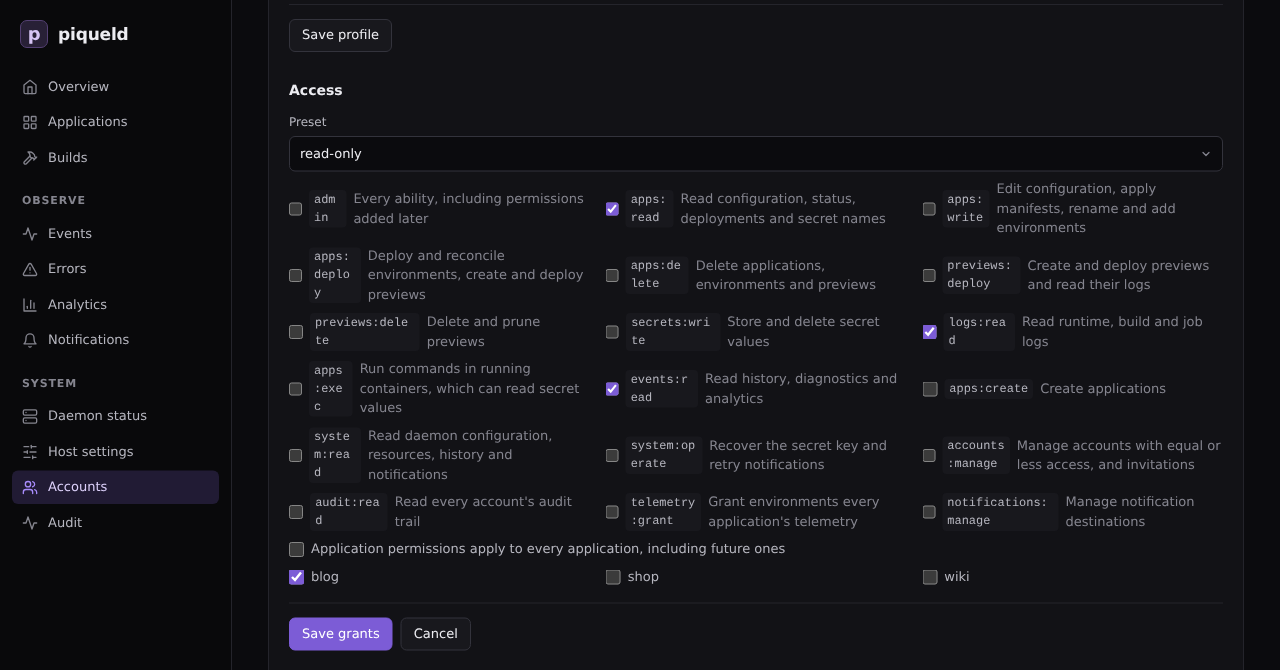
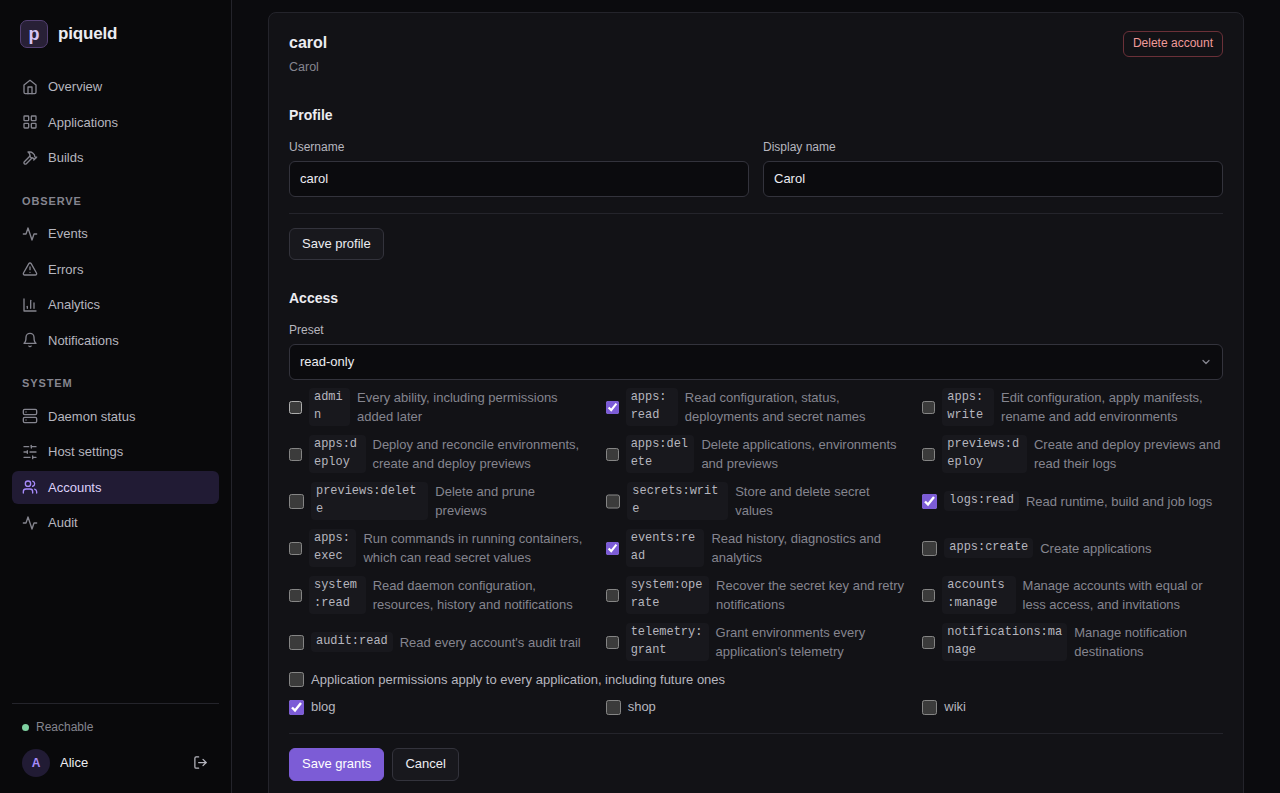
docs(user): generate the account screenshots
The account guides' four images were taken by hand. A screenshot spec now
seeds alice, carol, three applications and the pending links through the
Accounts page, as the guides do, and shoots each image. `shoot` gains a
`from` element, so an image can start mid-page, and freezes UUIDs, which
the Activity links carry.

diff --git a/tests/playwright/screenshots/docs.ts b/tests/playwright/screenshots/docs.ts
@@ -1,7 +1,7 @@
 // Helpers for the documentation screenshots: each one brings the dashboard to
 // a page, or state, a guide shows; `shoot` then saves it into docs/images.
-import type { Locator, Page } from '@playwright/test';
-import { test as base, expect, adminToken, fillRegistration, applicationTab, rewrite, type Cli } from '../fixtures.js';
+import type { Browser, Locator, Page } from '@playwright/test';
+import { test as base, expect, adminToken, fillRegistration, submitRegistration, applicationTab, rewrite, Passkeys, type Cli } from '../fixtures.js';
 import { createHash } from 'node:crypto';
 import { readFile, writeFile } from 'node:fs/promises';
 import { join } from 'node:path';
@@ -33,16 +33,20 @@ export const test = base.extend({
 
 /** Saves the page as docs/images/`name`.png, cut 12 pixels below the
  * bottom of `through`, or 800 pixels tall without it, once `freeze` has
- * made its content the same on every run.
+ * made its content the same on every run. With `from`, the image starts 12
+ * pixels above it, the page scrolled under the sidebar, instead of at the
+ * top of the page.
  *
  * The image records a fingerprint of the page it shows: its content and
  * styles, not its pixels, which antialiasing varies between runs. A page
  * whose fingerprint matches its image's isn't shot again. With
  * `--update-snapshots=none`, as in CI, a page that no longer matches fails
  * instead. */
-export async function shoot(page: Page, name: string, through?: Locator) {
-  const box = await through?.boundingBox();
-  await page.setViewportSize({ width: 1280, height: box ? Math.ceil(box.y + box.height) + 12 : 800 });
+export async function shoot(page: Page, name: string, through?: Locator, from?: Locator) {
+  const top = await from?.evaluate(element => element.getBoundingClientRect().top + scrollY - 12) ?? 0;
+  const bottom = await through?.evaluate(element => element.getBoundingClientRect().bottom + scrollY + 12);
+  await page.setViewportSize({ width: 1280, height: bottom ? Math.ceil(bottom - top) : 800 });
+  await page.evaluate(top => scrollTo(0, top), top);
   // Stop the dashboard's timers, without running any, so no refresh redraws
   // what `freeze` replaced. Fixing the time first makes pausing at it skip
   // nothing, however long the calls take.
@@ -66,8 +70,8 @@ export async function shoot(page: Page, name: string, through?: Locator) {
   await page.clock.resume();
 }
 
-// The text that differs on every run: random IDs and digests, and dates.
-const identifier = String.raw`\b[0-9a-f]{32,64}\b`;
+// The text that differs on every run: random IDs, UUIDs and digests, and dates.
+const identifier = String.raw`\b(?:[0-9a-f]{8}-[0-9a-f]{4}-[0-9a-f]{4}-[0-9a-f]{4}-[0-9a-f]{12}|[0-9a-f]{32,64})\b`;
 const date = String.raw`\b\d{1,2}\/\d{1,2}\/\d{4}, \d{1,2}:\d{2}:\d{2} [AP]M\b`;
 const fixedDate = '10/24/2026, 9:41:07 AM';
 const isoDate = String.raw`\b\d{4}-\d{2}-\d{2}T\d{2}:\d{2}:\d{2}(?:\.\d+)?Z\b`;
@@ -77,8 +81,9 @@ async function varying(page: Page): Promise<string[]> {
   return page.evaluate(pattern => [...new Set(document.body.innerText.match(new RegExp(pattern, 'g')))], `${identifier}|${date}`);
 }
 
-/** A hash of what the frozen page draws: the window's size, its styles, and
- * its content, with form values and without scripts. IDs and dates left in
+/** A hash of what the frozen page draws: the window's size and, when
+ * scrolled, where, its styles, and its content, with form values and without
+ * scripts. IDs and dates left in
  * attributes, such as links, are replaced like `freeze` replaces text. */
 async function fingerprint(page: Page): Promise<string> {
   const drawn = await page.evaluate(() => {
@@ -86,7 +91,8 @@ async function fingerprint(page: Page): Promise<string> {
     body.querySelectorAll('script').forEach(script => script.remove());
     const styles = Array.from(document.styleSheets).flatMap(sheet => Array.from(sheet.cssRules, rule => rule.cssText));
     const values = Array.from(document.querySelectorAll('input, select, textarea'), field => (field as HTMLInputElement).value);
-    return [`${innerWidth}x${innerHeight}`, ...styles, ...values, body.outerHTML].join('\n');
+    const size = scrollY ? `${innerWidth}x${innerHeight}+${scrollY}` : `${innerWidth}x${innerHeight}`;
+    return [size, ...styles, ...values, body.outerHTML].join('\n');
   });
   const order = new Map<string, number>();
   const stable = drawn
@@ -128,8 +134,11 @@ const Png = {
  * Returns the replacements. */
 async function freeze(page: Page): Promise<string[]> {
   const identifiers = (await varying(page)).filter(value => new RegExp(`^${identifier}$`).test(value));
-  const stable = Object.fromEntries(identifiers.map((value, index) =>
-    [value, createHash('sha256').update(`piqueld ${index}`).digest('hex').slice(0, value.length)]));
+  const stable = Object.fromEntries(identifiers.map((value, index) => {
+    const digest = createHash('sha256').update(`piqueld ${index}`).digest('hex');
+    let at = 0;
+    return [value, value.replace(/[0-9a-f]/g, () => digest[at++])];
+  }));
   await page.evaluate(({ pattern, stable, fixedDate }) => {
     const walker = document.createTreeWalker(document.body, NodeFilter.SHOW_TEXT);
     for (let node = walker.nextNode(); node; node = walker.nextNode()) {
@@ -176,4 +185,59 @@ export async function environment(page: Page, app: string, name: string) {
   await page.getByRole('main').getByRole('link').filter({ hasText: name }).click();
   await expect(page.getByRole('heading', { level: 1 })).toHaveText(name);
   await expect(page.getByRole('region', { name: 'Observed services' })).toContainText(/converged/i);
+}
+
+/** The Accounts page, once its accounts loaded. */
+export async function accounts(page: Page) {
+  await page.goto('/dashboard/accounts');
+  await expect(page.getByRole('heading', { level: 1 })).toHaveText('Accounts');
+  await expect(page.locator('.auth-account').first()).toBeVisible();
+}
+
+/** The card of account `username` on the Accounts page. */
+export const accountCard = (page: Page, username: string) =>
+  page.locator('.auth-account').filter({ has: page.getByRole('heading', { name: username, exact: true }) });
+
+/** Chooses grants in the grant editor within `scope`, as the guides do: the
+ * applications first, if any, then the preset. */
+export async function chooseGrants(scope: Locator, preset: string, applications: string[] = []) {
+  if (applications.length) {
+    await scope.getByLabel('Application permissions apply to every application, including future ones').setChecked(false);
+    for (const application of applications) await scope.getByLabel(application, { exact: true }).setChecked(true);
+  }
+  await scope.getByLabel('Preset').selectOption(preset);
+}
+
+/** Creates an invitation link on the Accounts page, as
+ * docs/user/accounts/accounts.md does, and returns it. */
+export async function invite(page: Page, preset: string, applications: string[] = []): Promise<string> {
+  await page.getByRole('button', { name: 'Create invitation', exact: true }).click();
+  const dialog = page.getByRole('dialog', { name: 'Create invitation' });
+  await chooseGrants(dialog, preset, applications);
+  await dialog.getByRole('button', { name: 'Create link', exact: true }).click();
+  return done(page);
+}
+
+/** The invitation or enrollment link the Accounts page shows once, read
+ * before selecting **Done**. */
+export async function done(page: Page): Promise<string> {
+  const secret = page.locator('.secret-box');
+  await expect(secret).toContainText(/#(invite|enroll)=/);
+  const link = (await secret.innerText()).trim();
+  await page.getByRole('button', { name: 'Done', exact: true }).click();
+  await expect(secret).toHaveCount(0);
+  return link;
+}
+
+/** Creates account `username` through invitation `link`, in a browser of its own. */
+export async function signUp(browser: Browser, link: string, username: string, display: string) {
+  const context = await browser.newContext();
+  try {
+    const page = await context.newPage();
+    const passkeys = await Passkeys.create(page);
+    try {
+      await fillRegistration(page, link, username, { display, passkey: 'Laptop' });
+      await submitRegistration(page);
+    } finally { await passkeys.close(); }
+  } finally { await context.close(); }
 }

diff --git a/tests/playwright/screenshots/accounts.spec.ts b/tests/playwright/screenshots/accounts.spec.ts
@@ -1,0 +1,53 @@
+import { adminToken, expect, submitRegistration } from '../fixtures.js';
+import { test, accountCard, accountForm, accounts, chooseGrants, done, invite, shoot, signUp } from './docs.js';
+
+// docs/user/accounts: alice's account and passkeys, carol's invitation and
+// grants, a new API token, and pending links.
+test('accounts', async ({ page, browser, daemon, cli, passkeys }) => {
+  await accountForm(page, daemon.setup);
+  await submitRegistration(page);
+  const token = await adminToken(page, 'Screenshots');
+  for (const name of ['blog', 'shop', 'wiki']) {
+    const created = await cli.run(['app', 'create', name, '--yes'], token);
+    expect(created.code, created.stderr).toBe(0);
+  }
+
+  // A second passkey, from another device: the first one is already registered.
+  await accounts(page);
+  const alice = accountCard(page, 'alice');
+  await passkeys.reset();
+  await alice.getByLabel('New passkey name', { exact: true }).fill('Phone');
+  await alice.getByRole('button', { name: 'Add passkey', exact: true }).click();
+  await expect(page.getByText('Passkey added.', { exact: true })).toBeVisible();
+  await accounts(page);
+  await expect(alice.getByLabel('Passkey name', { exact: true })).toHaveCount(2);
+  await shoot(page, 'accounts/accounts-page', alice.getByRole('button', { name: 'Add passkey', exact: true }));
+
+  await signUp(browser, await invite(page, 'read-only'), 'carol', 'Carol');
+  await accounts(page);
+  const carol = accountCard(page, 'carol');
+  await carol.getByRole('button', { name: 'Edit grants', exact: true }).click();
+  await chooseGrants(carol, 'read-only', ['blog']);
+  const save = carol.getByRole('button', { name: 'Save grants', exact: true });
+  await shoot(page, 'accounts/grant-editor', save, carol);
+  await save.click();
+  await expect(carol.getByText('apps:read on blog', { exact: true })).toBeVisible();
+
+  await accounts(page);
+  await chooseGrants(alice, 'deploy', ['blog']);
+  await alice.getByLabel('New token name', { exact: true }).fill('ci');
+  const days = alice.getByLabel('Expires in days (blank: never)', { exact: true });
+  await days.fill('30');
+  await days.blur();
+  await expect(alice.getByText('apps:deploy on blog', { exact: true })).toBeVisible();
+  await shoot(page, 'accounts/new-api-token', alice.getByRole('button', { name: 'Create token', exact: true }),
+    alice.getByRole('heading', { name: 'New API token', exact: true }));
+
+  await accounts(page);
+  await invite(page, 'deploy', ['blog']);
+  await carol.getByRole('button', { name: 'Create enrollment link', exact: true }).click();
+  await done(page);
+  const pending = page.locator('section').filter({ has: page.getByRole('heading', { name: 'Pending links', exact: true }) });
+  await expect(pending.getByRole('row')).toHaveCount(3);
+  await shoot(page, 'accounts/pending-links', pending, pending);
+});

diff --git a/docs/dev/documentation.md b/docs/dev/documentation.md
@@ -148,10 +148,12 @@ guide. `screenshots/docs.ts` holds the helpers:
 
 - one helper per page or state, such as `overview`, which waits for its data
   to settle. Add one for each new page you show.
-- `shoot(page, '<section>/<name>', through)`, which saves the page, 1280
-  pixels wide and cut just below the element `through`, as
-  `docs/images/<section>/<name>.png`. It replaces IDs, digests and dates with
-  fixed ones first, so the images don't change from run to run.
+- `shoot(page, '<section>/<name>', through, from)`, which saves the page,
+  1280 pixels wide and cut just below the element `through`, as
+  `docs/images/<section>/<name>.png`. With `from`, the image starts just above
+  that element instead of at the top of the page. It replaces IDs, digests
+  and dates with fixed ones first, so the images don't change from run to
+  run.
 
 ```typescript
 await deployFrom(page, cli, 'user/getting-started/first-app.md');

diff --git a/docs/user/accounts/accounts.md b/docs/user/accounts/accounts.md
@@ -20,7 +20,7 @@ Open **Accounts** in the dashboard's sidebar. Each account has a card with its
 **Profile**, its **Access**, its **Passkeys**, and its **Sessions and API
 tokens**.
 
-![The Accounts page: the card of alice, with her username and display name, admin on every application, and two passkeys named Laptop and Phone](../../images/accounts/accounts-page.png)
+![The Accounts page: the card of alice, with the display name Alice, admin on every application, and two passkeys named Laptop and Phone](../../images/accounts/accounts-page.png)
 
 Without `accounts:manage`, the page only shows your own account. With it, the
 page lists every account, the invitation and enrollment links waiting to be
